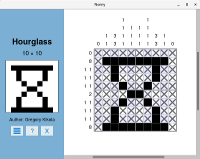
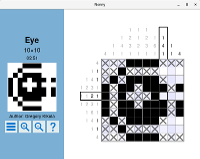
Replace Nonny screenshot on projects page and update descriptions

diff --git a/projects/index.html b/projects/index.html
@@ -8,8 +8,8 @@ description: List of Greg Kikola's software projects.
   <h2><a href="/projects/ccalc/" title="ccalc">
       ccalc
   </a></h2>
-  <p>Command-line calculator using C syntax: evaluate mathematical expressions
-    from the command line.</p><br>
+  <p>Evaluate mathematical expressions from the command line.
+  Accepts and evaluates expressions using C syntax.</p><br>
   <h2><a href="/optionpp/" title="Option++">Option++</a></h2>
   <p>C++ facility for reading command-line program options. Provides
   an easy way to read, validate, and process command-line options.</p><br>
@@ -17,8 +17,8 @@ description: List of Greg Kikola's software projects.
       <img src="/images/nonny.png" alt="Nonny" class="padded-img">
       Nonny
   </a></h2></p>
-  <p><i>(In development)</i> Free nonogram puzzle game: play and create
-    nonogram puzzles. Nonograms are logic puzzles in which numeric clues are
+  <p><i>(In development)</i> Play and create
+    nonogram puzzles! Nonograms are logic puzzles in which numeric clues are
     used to fill in squares within a grid in order to reveal a picture.</p><br>
   <!--<p style="clear: left;"><h2><a href="https://github.com/gkikola/luatank" title="LuaTank">
       <img src="/images/luatank.png" alt="LuaTank" class="padded-img">
